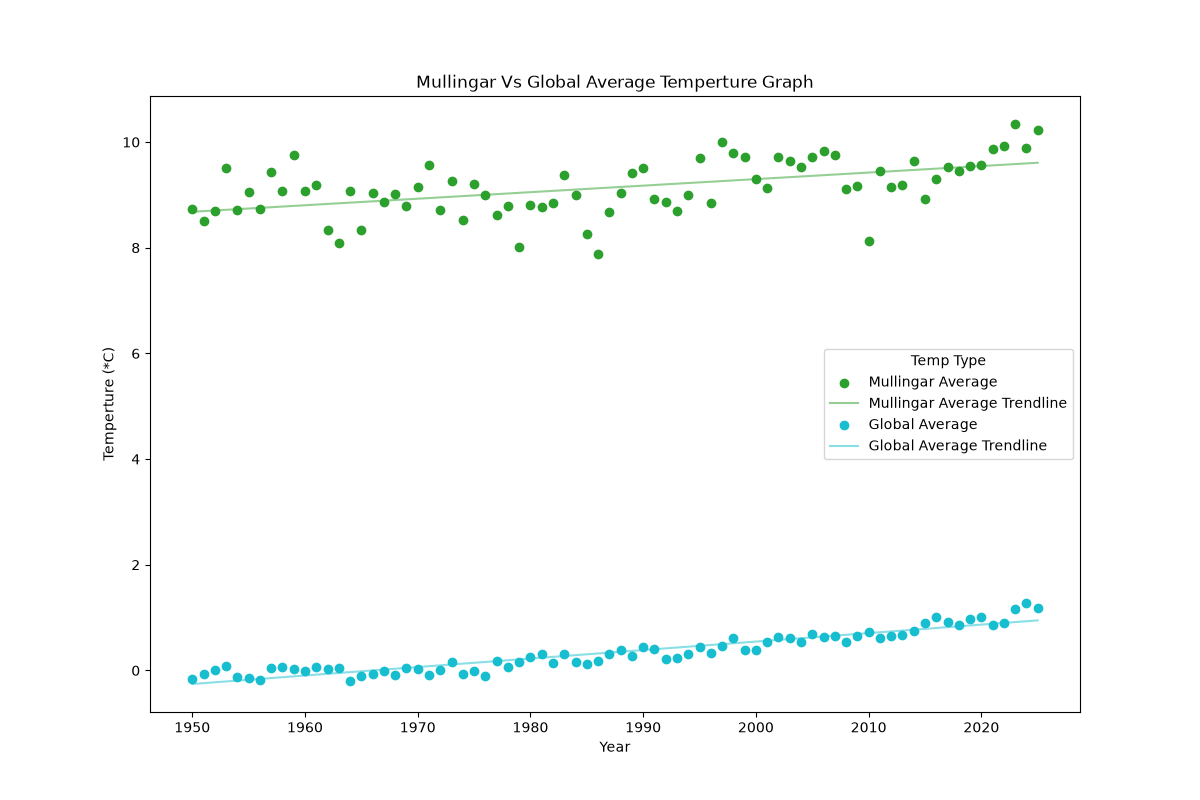
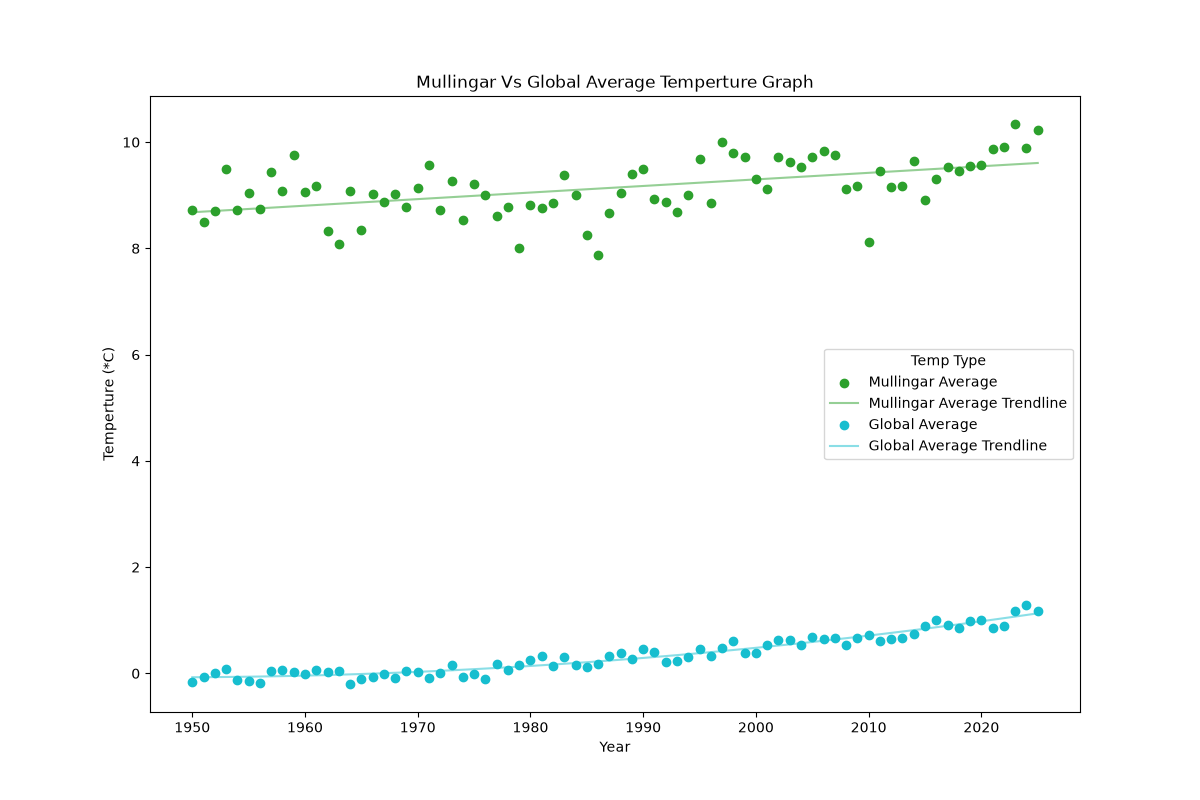
Attempt to extract data on only a specific month
failed :(

Changed region(s): [[0.1542, 0.75, 0.8633, 0.875], [0.3392, 0.2188, 0.37, 0.25]]

diff --git a/Pyhton Files/Global_and_Mullingar_Contrasted.py b/Pyhton Files/Global_and_Mullingar_Contrasted.py
@@ -19,7 +19,7 @@ fig, ax = plt.subplots(figsize = (12,8))
 avgScatter = ax.scatter(yearlyWeather["Year"], yearlyWeather["Avg_Mean_Temp"], marker = "o", label = "Mullingar Average", color = "tab:green")
 
 # calculate equation for trendline
-z_avg = np.polyfit (yearlyWeather["Year"],yearlyWeather["Avg_Mean_Temp"],2)
+z_avg = np.polyfit (yearlyWeather["Year"],yearlyWeather["Avg_Mean_Temp"],1)
 trendlineEq = np.poly1d(z_avg)
 
 # apply trend line
@@ -39,11 +39,18 @@ globalWeather = pd.read_csv("https://raw.githubusercontent.com/Inf3rn4lis/DataVi
 avgScatter = ax.scatter(globalWeather["Year"], globalWeather["Avg-Temp"], marker = "o", label = "Global Average", color = "tab:cyan")
 
 # calculate equation for trendline
-z_avg = np.polyfit (globalWeather["Year"],globalWeather["Avg-Temp"],1)
+z_avg = np.polyfit (globalWeather["Year"],globalWeather["Avg-Temp"],3)
 trendlineEq = np.poly1d(z_avg)
 
 # apply trend line
 ax.plot(globalWeather["Year"], trendlineEq(globalWeather["Year"]), label = "Global Average Trendline", alpha = 0.5, color = "tab:cyan")
+
+# Correlation Coeffecient.
+correlation_cof = np.corrcoef(globalWeather["Avg-Temp"],yearlyWeather["Min_Temp"])[0,1]
+print(correlation_cof)
+
+corrcorrelation_cof = round(correlation_cof, 2)
+
 
 # Legend
 ax.legend(title = "Temp Type")
